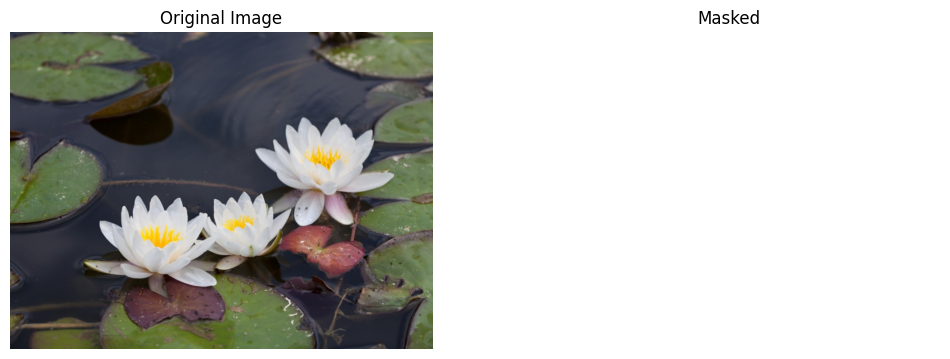
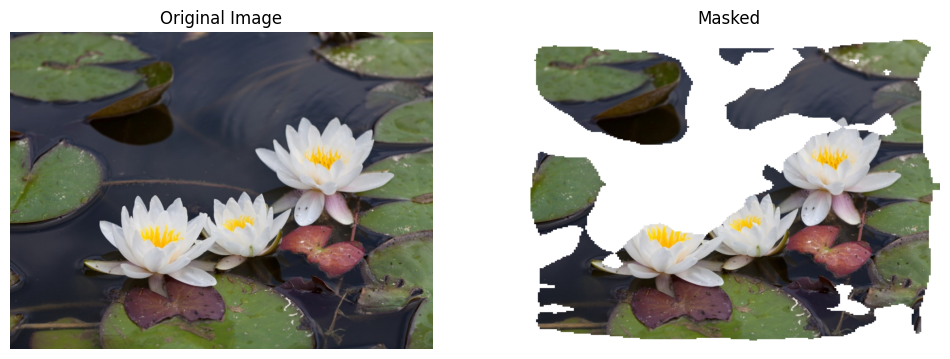
removed low confidence error

Changed region(s): [[0.5495, 0.0919, 1.0, 0.9499], [0.5495, 0.1226, 0.7326, 0.429]]

diff --git a/object_detection_api/main.py b/object_detection_api/main.py
@@ -147,7 +147,8 @@ async def detect_objects(file: UploadFile):
     # Convert output to class prediction
     highest_confidence = torch.softmax(output, dim=1).max().item()
     print(f"🌟 Confidence: {highest_confidence}")
-    if highest_confidence < 0.7:
+    """
+    if highest_confidence < 0.5:
         print("❌ Confidence too low for prediction.")
         detections = []
         detections.append({
@@ -158,6 +159,7 @@ async def detect_objects(file: UploadFile):
             "color": "",
         })
         return JSONResponse(content={"detections": detections, "segmentation": 0})
+    """
 
     predicted_class = torch.argmax(output, dim=1).item()
     print(f"✅ Predicted Flower Label: {predicted_class}, name: {class_to_flower[predicted_class]}")
@@ -186,7 +188,6 @@ async def detect_objects(file: UploadFile):
     )
     print("✅ Visualization completed!")
     """
-    
     """
     # Convert masked_image from numpy array to PIL Image
     print(masked_image.size)
